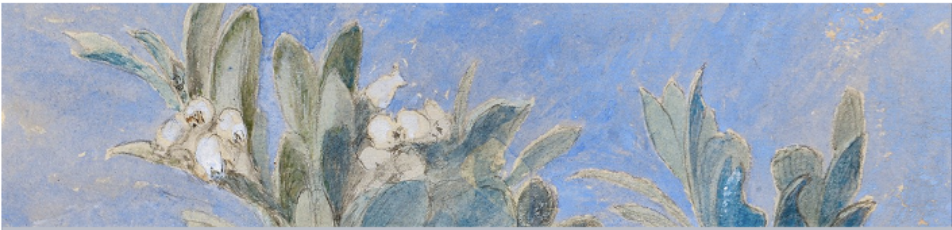
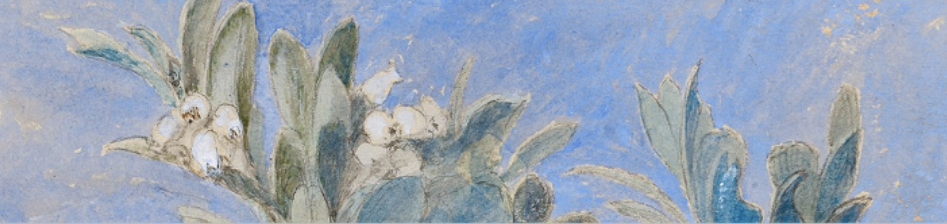
adding temporary homepage pics

diff --git a/ruskin-angular/src/app/home/home.component.html b/ruskin-angular/src/app/home/home.component.html
@@ -1,7 +1,9 @@
 <div class="d-flex flex-row justify-content-start align-items-start m-auto p-4 w-100">
   <div class="d-flex flex-column justify-content-start align-items-center" id="imagesContainer">
-    <img src="../assets/TempRSKLogo.png" alt="Image of John Ruskin" width="200" height="300">
-    <img src="../assets/TempRSKLogo.png" alt="Image of John Ruskin" width="200" height="300">
+    <img src="../assets/TempRSKLogo.png" alt="Image of John Ruskin" width="200">
+    <br>
+    <br>
+    <img src="../assets/fish.png" alt="Image of John Ruskin" width="200">
   </div>
   <div class="d-flex flex-column justify-content-start" id="contentContainer">
     <p>In nineteenth-century Great Britain, John Ruskin (1819–1900) was a
@@ -26,8 +28,10 @@
       read the other side of this fascinating correspondence, see the <a href="carlyleletters.dukeupress.edu">Carlyle Letters Online</a>. </p>
   </div>
   <div class="d-flex flex-column justify-content-start align-items-center" id="imagesContainer">
-    <img src="../assets/TempRSKLogo.png" alt="Image of John Ruskin" width="200" height="300">
-    <img src="../assets/TempRSKLogo.png" alt="Image of John Ruskin" width="200" height="300">
+    <img src="../assets/arches.png" alt="Image of John Ruskin" width="200">
+    <br>
+    <br>
+    <img src="../assets/ruskin.png" alt="Image of John Ruskin" width="200">
   </div>
 </div>
 

diff --git a/ruskin-angular/src/app/home/home.component.scss b/ruskin-angular/src/app/home/home.component.scss
@@ -14,7 +14,7 @@ $secondary-color: #7697be;
 }
 
 #contentContainer {
-  width: 40%;
+  width: 60%;
   margin-right: 20px;
 }
 
